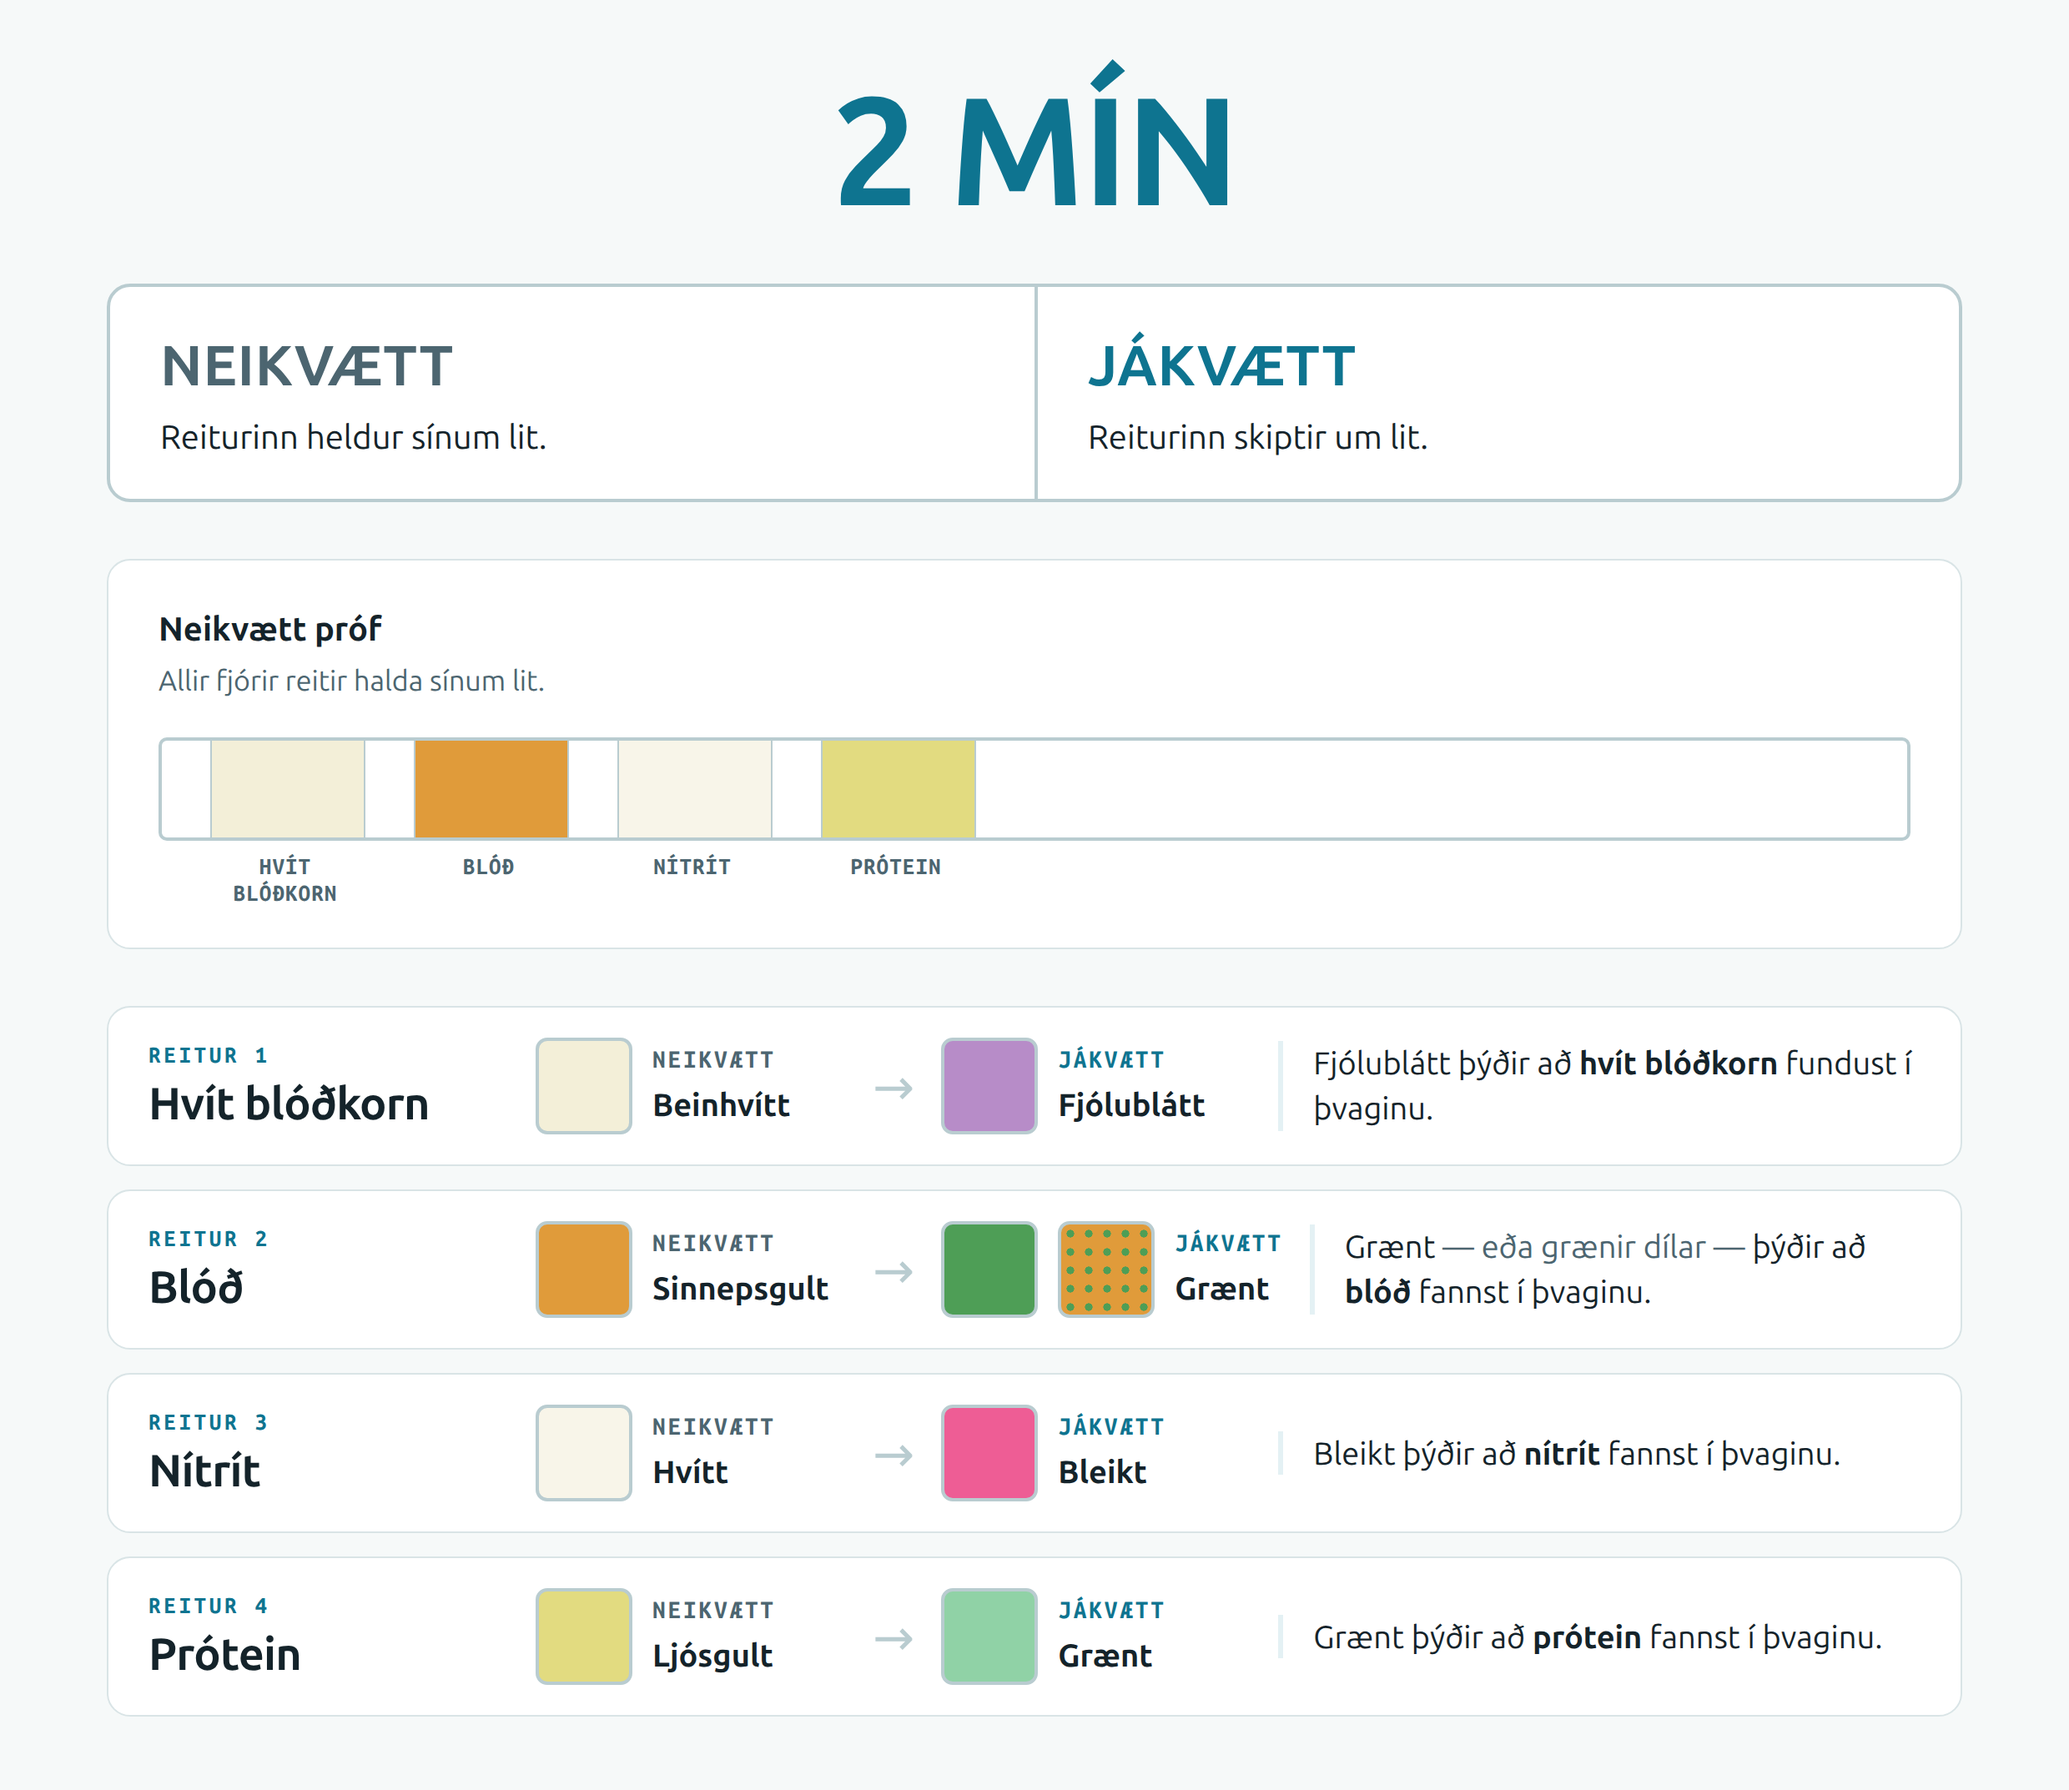
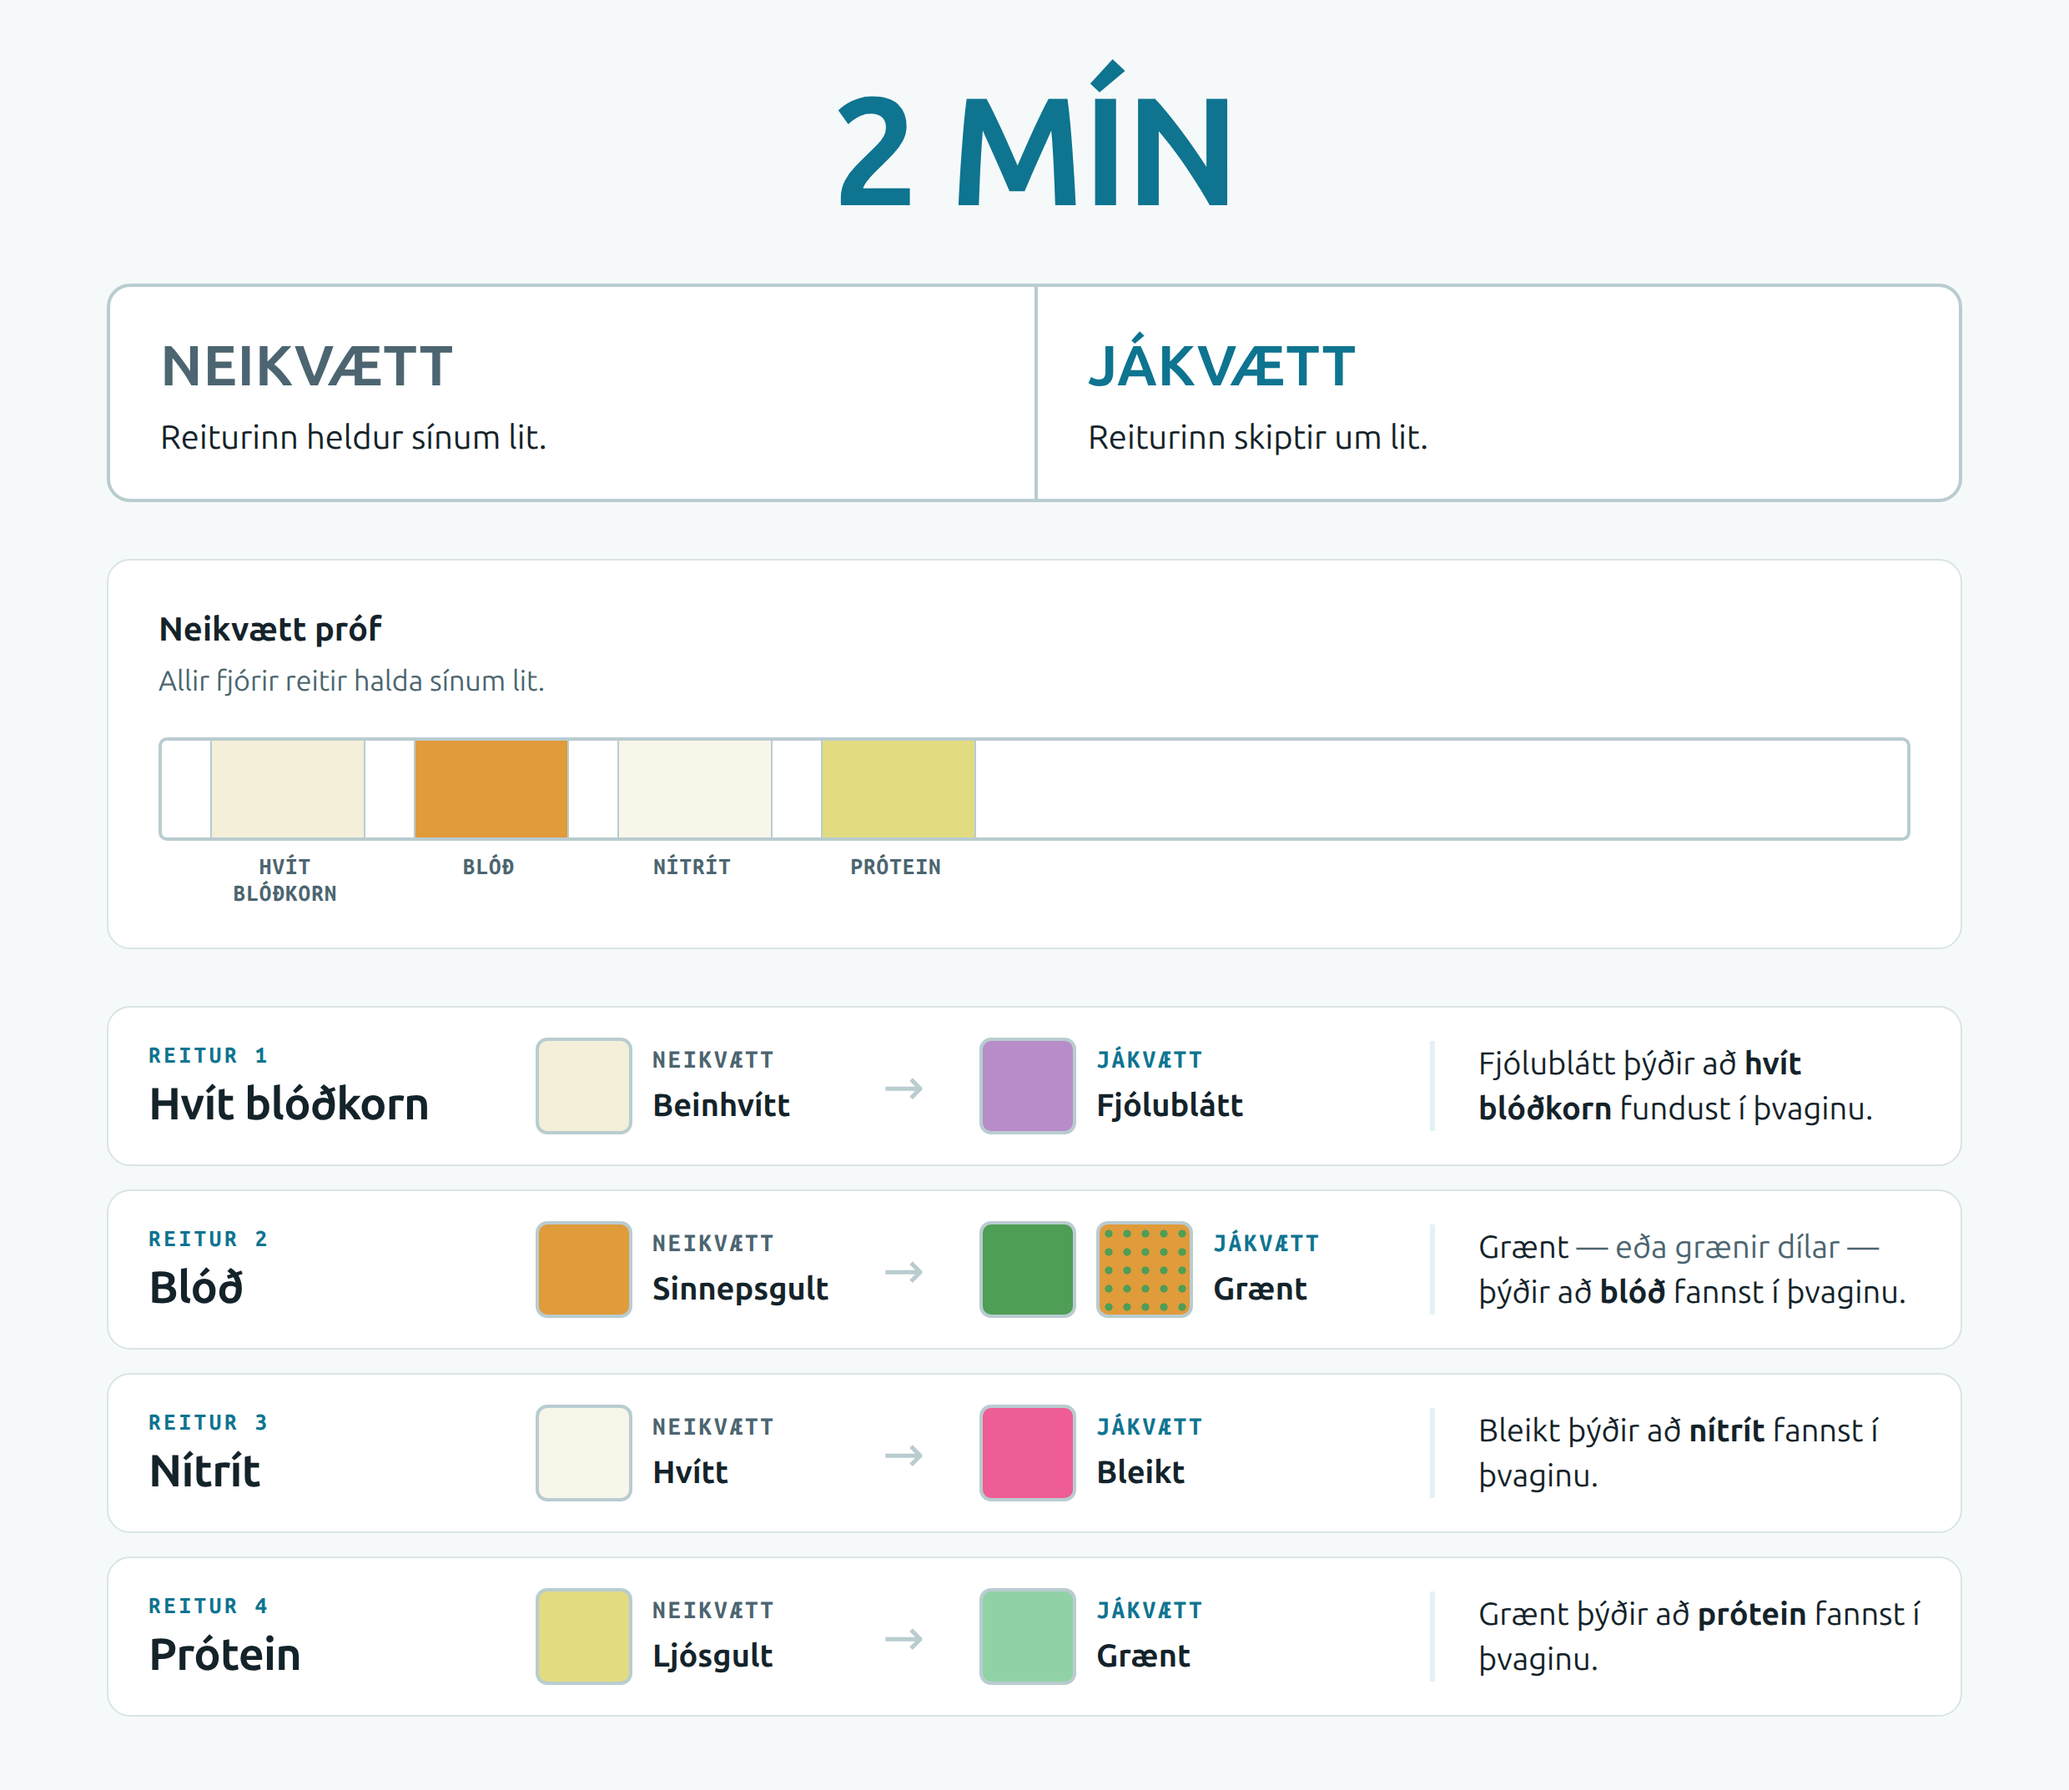
Docs: þvagstrimill sheet — align the explanation column
The rows laid the chips out with flex, so the blood row's second chip
pushed its explanation right and every row started at a different x.
Fixed columns now hold the arrow and the text in place, with more room
between the positive chip and the explanation.

diff --git a/docs/thvagstrimill.html b/docs/thvagstrimill.html
@@ -137,8 +137,15 @@
   }
   .row-name b { font-size: 27px; letter-spacing: -0.015em; line-height: 1.1; }
 
-  .compare { display: flex; align-items: center; gap: 16px; }
-  .state { display: flex; align-items: center; gap: 12px; flex: 0 0 auto; min-width: 186px; }
+  /* Fixed columns, so the arrow and the explanation start at the same x on
+     every row — the blood row's extra chip can't shove them sideways. */
+  .compare {
+    display: grid;
+    grid-template-columns: 190px 40px 252px 1fr;
+    align-items: center;
+    gap: 18px;
+  }
+  .state { display: flex; align-items: center; gap: 12px; }
   .chip {
     width: 58px;
     height: 58px;
@@ -168,9 +175,8 @@
     line-height: 1.4;
     color: var(--ink);
     border-left: 3px solid var(--accent-soft);
-    padding-left: 18px;
+    padding-left: 26px;
     margin: 0;
-    flex: 1 1 300px;
   }
   .meaning em { font-style: normal; color: var(--ink-soft); }
 
